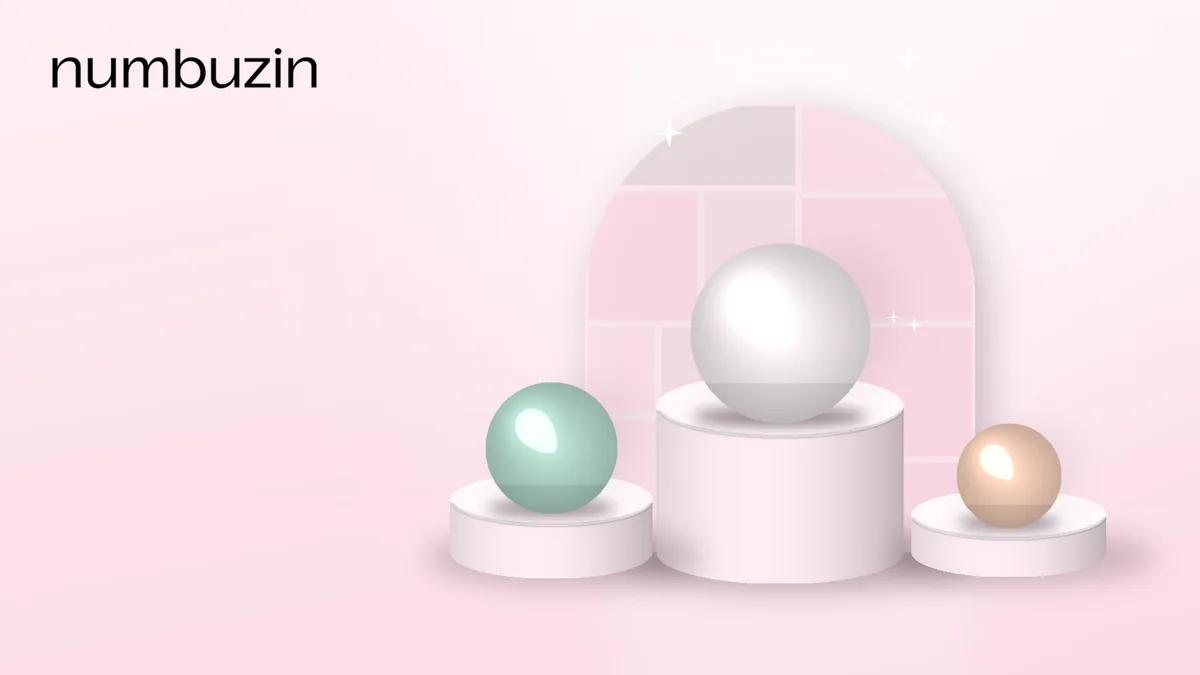
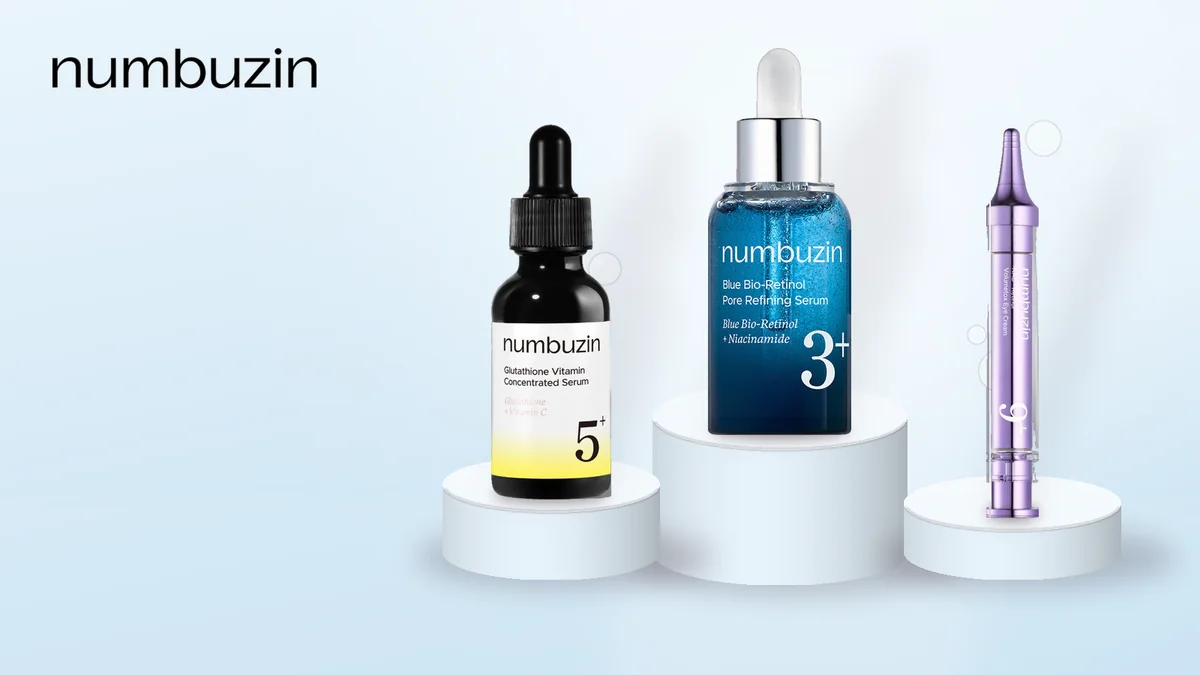
Numbuzin: cartão da página Marcas com produtos (No.5+, No.3+, No.9); robô lê/grava arquivo do tema
Claude-Session: https://claude.ai/code/session_01LxTRdjkTdLyM14waSGSEFh

diff --git a/supabase/functions/catalogo-robo/index.ts b/supabase/functions/catalogo-robo/index.ts
@@ -10,6 +10,7 @@
 //   { modo: "capa", fase: "por" | "fim", itens } → troca a capa (mesmo fluxo da função capa-foto)
 //   { modo: "status", ids, status: "ACTIVE" | "DRAFT" } → ativa (e publica nos canais de um produto ativo) — só com OK explícito do Tae
 //   { modo: "ler2", ids } → conferência completa por versão
+//   { modo: "tema", ler?: [arquivo], gravar?: [{ arquivo, texto? | url? }] } → lê/grava arquivo do tema publicado
 import { createClient } from "npm:@supabase/supabase-js@2";
 const admin = createClient(Deno.env.get("SUPABASE_URL")!, Deno.env.get("SUPABASE_SERVICE_ROLE_KEY")!, { auth: { persistSession: false } });
 const SHOP = Deno.env.get("SHOPIFY_SHOP") ?? "", VERSAO = Deno.env.get("SHOPIFY_API_VERSION") ?? "2026-04";
@@ -293,6 +294,20 @@ Deno.serve(async (req) => {
           out.push({ id, titulo: p.title, status: p.status, fotos: p.mediaCount?.count, canais: p.resourcePublicationsV2.nodes.filter((x: any) => x.isPublished).length, opcoes: p.options,
             versoes: p.variants.nodes.map((v: any) => ({ sku: v.sku, nome: v.title, preco: v.price, foto: !!v.media.nodes[0], dim: v.metafield?.value, hs: v.inventoryItem.harmonizedSystemCode, origem: v.inventoryItem.countryCodeOfOrigin, peso: v.inventoryItem.measurement?.weight?.value })) });
         } catch (e) { out.push({ id, ok: false, erro: erro(e) }); }
+      }
+    } else if (b.modo === "tema") {
+      // tema publicado: { ler: [arquivo] } → conteúdo (texto) · { gravar: [{ arquivo, texto? , url? }] } → grava (url = imagem do repositório)
+      const t: any = await gql(`{ themes(first: 1, roles: [MAIN]) { nodes { id name } } }`);
+      const tema = t.themes.nodes[0]; if (!tema) throw new Error("sem tema publicado");
+      if (Array.isArray(b.ler)) {
+        const d: any = await gql(`query($id: ID!, $f: [String!]) { theme(id: $id) { files(filenames: $f, first: 20) { nodes { filename size body { ... on OnlineStoreThemeFileBodyText { content } } } } } }`, { id: tema.id, f: b.ler.map(String) });
+        for (const n of d.theme.files.nodes) out.push({ arquivo: n.filename, tamanho: n.size, texto: n.body?.content ?? null });
+      }
+      if (Array.isArray(b.gravar)) {
+        const files = b.gravar.map((g: any) => ({ filename: String(g.arquivo), body: g.url ? { type: "URL", value: String(g.url) } : { type: "TEXT", value: String(g.texto) } }));
+        const d: any = await gql(`mutation($id: ID!, $f: [OnlineStoreThemeFilesUpsertFileInput!]!) { themeFilesUpsert(themeId: $id, files: $f) { upsertedThemeFiles { filename } userErrors { field message } } }`, { id: tema.id, f: files });
+        if (d.themeFilesUpsert.userErrors.length) throw new Error("tema: " + JSON.stringify(d.themeFilesUpsert.userErrors).slice(0, 250));
+        out.push({ tema: tema.name, gravados: d.themeFilesUpsert.upsertedThemeFiles.map((x: any) => x.filename) });
       }
     } else return resp(400, { erro: "modo desconhecido" });
     return resp(200, { ok: true, resultados: out });

diff --git a/tools/marcas/compor_cenas.py b/tools/marcas/compor_cenas.py
@@ -15,7 +15,7 @@ CENA = {"anua": [1, 0, 6], "arencia": [6, 7, 5], "aromatica": [0, 6, 7], "banila
  "dr-melaxin": [2, 3, 5], "dr-reju-all": [2, 1], "ilso": [5, 6, 7], "kaine": [0, 4, 6], "lador": [1, 3, 6],
  "manyo": [1], "medicube": [6, 1, 7], "mediheal": [4, 5], "mise-en-scene": [4, 6, 7], "mixsoon": [2, 3, 4],
  "purcell": [0, 1, 2], "round-lab": [2, 4, 3], "skin1004": [1, 0, 4], "some-by-mi": [7, 5], "tirtir": [1, 2, 7],
- "torriden": [6, 5, 2], "wellage": [0, 2, 6], "another-face": [6], "ongredients": [7]}
+ "torriden": [6, 5, 2], "wellage": [0, 2, 6], "another-face": [6], "ongredients": [7], "numbuzin": [0, 1, 2]}
 M = json.load(open(f"{R}/site/marcas/marcas.json", encoding="utf-8"))
 W, H = 1600, 900
 OUTW, OUTH = 1200, 675
